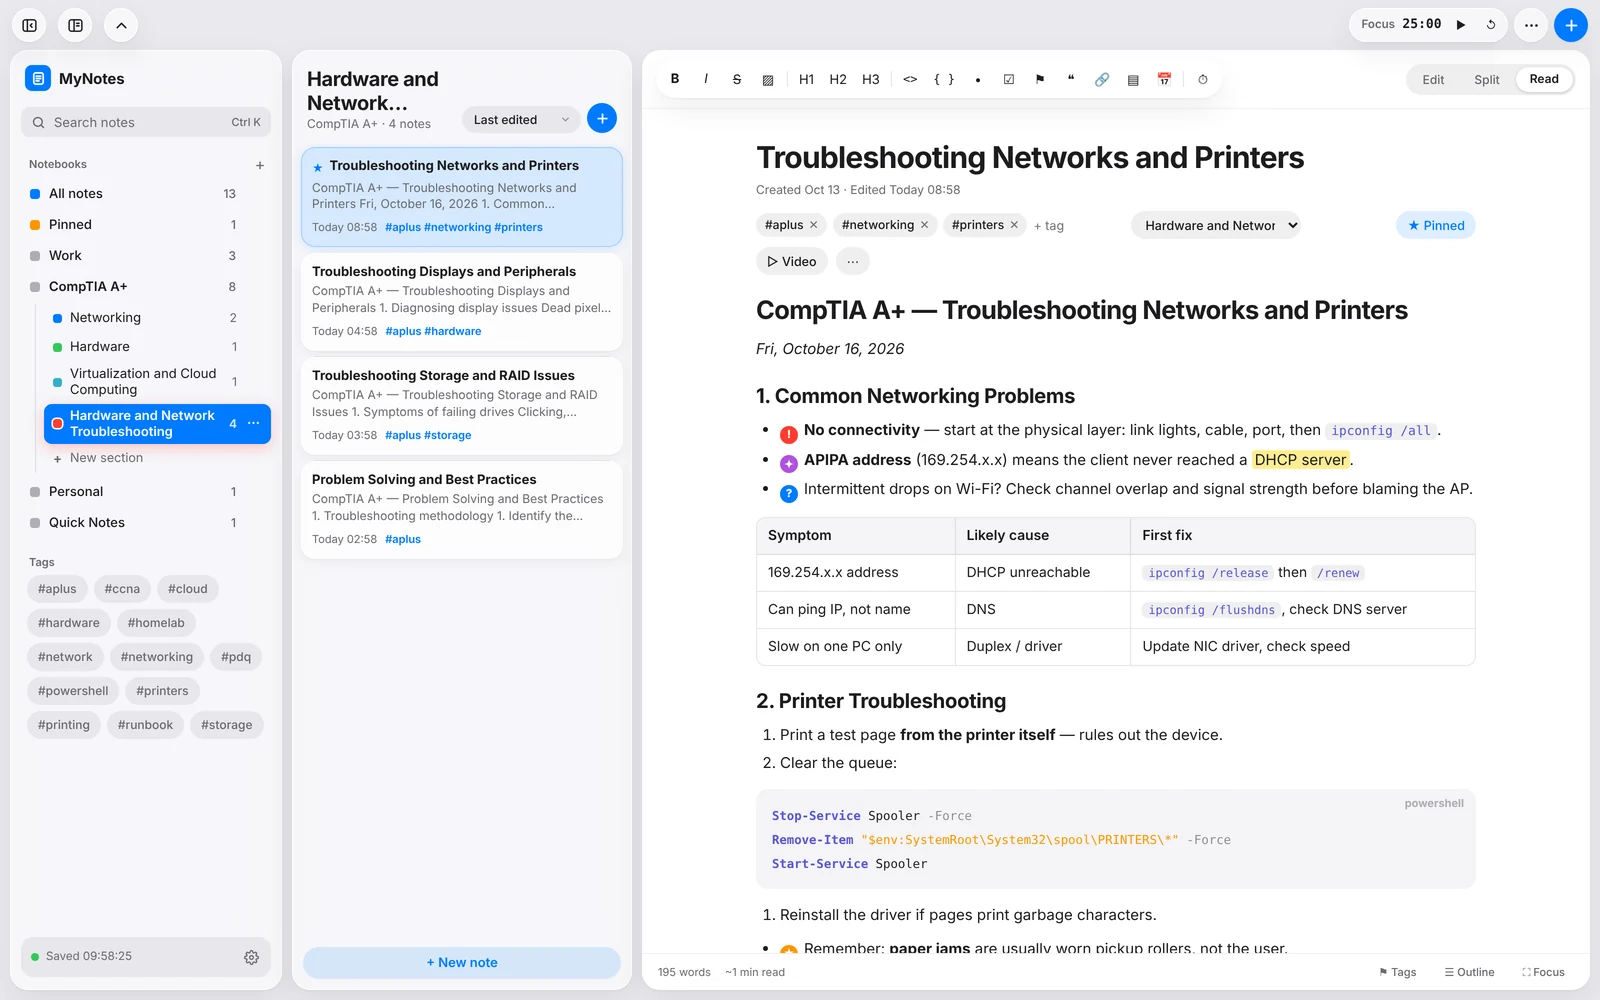
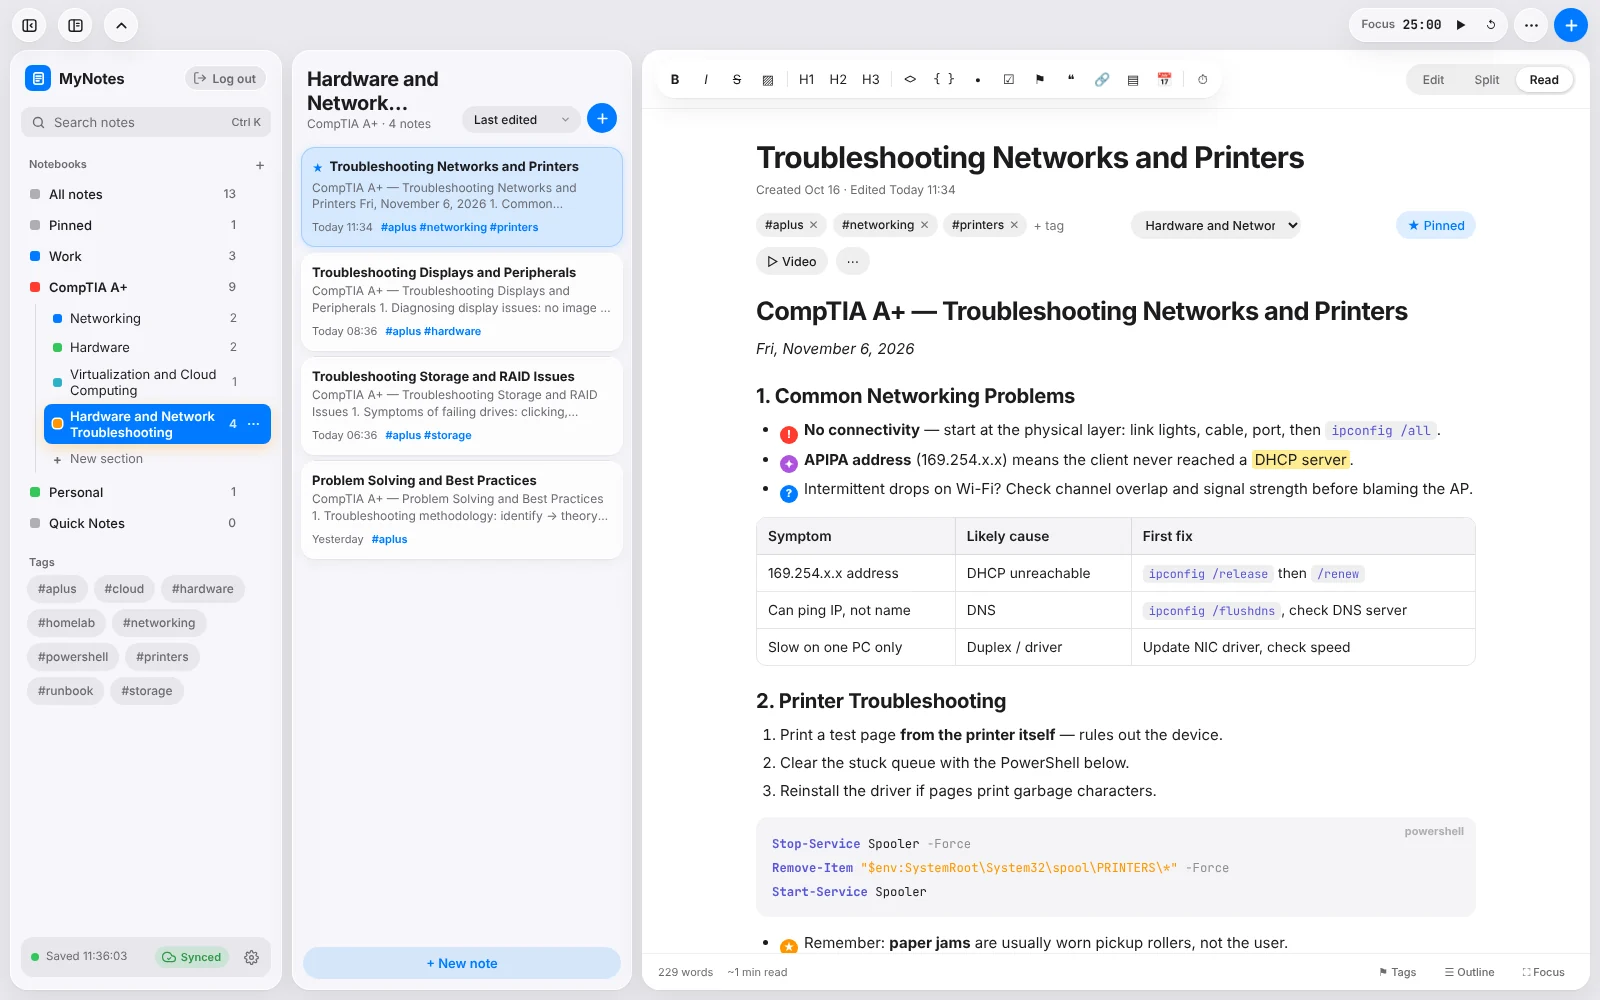
MyNotes: new screenshots, Neon in card and teaser text

diff --git a/projects.html b/projects.html
@@ -211,11 +211,11 @@
       </article>
       <article class="card" data-group="personal">
         <figure class="card-shot card-gallery">
-          <img src="images/mynotes.webp" alt="MyNotes: notebook sidebar with colored sections, a note list of glass cards, and a CompTIA A+ study note in split edit/preview view with a comparison table and a PowerShell code block" loading="lazy" onerror="this.closest('.card-shot').remove()">
+          <img src="images/mynotes.webp" alt="MyNotes: notebook sidebar with colored sections, a Log out button and a Synced cloud indicator, a note list of glass cards, and a CompTIA A+ study note in split edit/preview view with paragraph tags and a comparison table" loading="lazy" onerror="this.closest('.card-shot').remove()">
           <figcaption>Split edit / preview</figcaption>
           <div class="gallery-thumbs" role="group" aria-label="MyNotes views">
-            <button type="button" aria-pressed="true" data-label="Split edit / preview" data-alt="MyNotes: notebook sidebar with colored sections, a note list of glass cards, and a CompTIA A+ study note in split edit/preview view with a comparison table and a PowerShell code block"><img src="images/mynotes.webp" alt="" loading="lazy"></button>
-            <button type="button" aria-pressed="false" data-label="Read view" data-alt="MyNotes read view: the rendered study note with paragraph tags, a highlighted exam fact, a symptom-to-fix table and wrapped PowerShell code"><img src="images/mynotes-read.webp" alt="" loading="lazy"></button>
+            <button type="button" aria-pressed="true" data-label="Split edit / preview" data-alt="MyNotes: notebook sidebar with colored sections, a Log out button and a Synced cloud indicator, a note list of glass cards, and a CompTIA A+ study note in split edit/preview view with paragraph tags and a comparison table"><img src="images/mynotes.webp" alt="" loading="lazy"></button>
+            <button type="button" aria-pressed="false" data-label="Read view" data-alt="MyNotes read view: the rendered study note with paragraph tags, a highlighted exam fact, a symptom-to-fix table and a PowerShell code block"><img src="images/mynotes-read.webp" alt="" loading="lazy"></button>
             <button type="button" aria-pressed="false" data-label="Quick delete & note menu" data-alt="MyNotes note list: a trash button on the hovered note and the right-click menu with Open, Pin, Rename, Duplicate and Delete"><img src="images/mynotes-menu.webp" alt="" loading="lazy"></button>
             <button type="button" aria-pressed="false" data-label="Find Tags" data-alt="MyNotes Find Tags panel listing every tagged line and open checklist item across all notes, grouped by tag type"><img src="images/mynotes-tags.webp" alt="" loading="lazy"></button>
             <button type="button" aria-pressed="false" data-label="Settings" data-alt="MyNotes settings: theme, accent color, title bar color, text size, interface and reading fonts, Pomodoro timer and page history"><img src="images/mynotes-settings.webp" alt="" loading="lazy"></button>
@@ -224,8 +224,8 @@
         <div class="card-body">
           <div class="card-kicker"><span>personal build</span><span>shipped</span></div>
           <h3>MyNotes — Markdown Notes, Synced Everywhere</h3>
-          <p>Started as a self-contained notes app in one HTML file, now a live site with a Node/Express backend and Postgres, so every device sees the same notebook. Organized like OneNote — notebooks › sections › pages › subpages, color-coded from the sidebar — with page history you can restore, Quick Notes, paragraph tags with a Find Tags summary, wikilinks, a split edit/preview pane, PowerShell syntax highlighting, image paste, and a focus timer. Columns resize by dragging, notes delete from a hover button or right-click menu, and the accent and title-bar colors are yours to pick. IndexedDB keeps an offline copy: edits save on-device when the server is unreachable and sync when the connection returns. Every dialog is built in-app, login is rate-limited, and the whole stack deploys from one Render blueprint.</p>
-          <div class="chips"><span class="chip hi">Node / Express</span><span class="chip">Postgres</span><span class="chip">IndexedDB</span><span class="chip">Markdown</span><span class="chip">Render</span></div>
+          <p>Started as a self-contained notes app in one HTML file, now a live site with a Node/Express backend on Render and Postgres on Neon, so every device sees the same notebook. Organized like OneNote — notebooks › sections › pages › subpages, color-coded from the sidebar — with page history you can restore, Quick Notes, paragraph tags with a Find Tags summary, wikilinks, a split edit/preview pane, PowerShell syntax highlighting, image paste, and a focus timer. Columns resize by dragging, notes delete from a hover button or right-click menu, and the accent and title-bar colors are yours to pick. IndexedDB keeps an offline copy: edits save on-device when the server is unreachable and sync when the connection returns, and a cloud indicator shows each edit reaching the database. Every dialog is built in-app, login is rate-limited with a one-click log out, and the app deploys from one Render blueprint.</p>
+          <div class="chips"><span class="chip hi">Node / Express</span><span class="chip">Postgres (Neon)</span><span class="chip">IndexedDB</span><span class="chip">Markdown</span><span class="chip">Render</span></div>
         </div>
       </article>
       <article class="card" data-group="personal">

diff --git a/index.html b/index.html
@@ -439,7 +439,7 @@
         <div class="proj">
           <div>
             <h3>MyNotes</h3>
-            <p>OneNote-style Markdown notes synced across devices — Node/Express + Postgres on Render, offline cache in IndexedDB, page history, paragraph tags.</p>
+            <p>OneNote-style Markdown notes synced across devices — Node/Express on Render + Postgres on Neon, offline cache in IndexedDB, page history, paragraph tags.</p>
           </div>
           <div class="proj-meta"><span class="chip hi">Node / Express</span><span class="chip">Postgres</span><span class="chip">personal</span></div>
         </div>

diff --git a/CLAUDE.md b/CLAUDE.md
@@ -136,6 +136,23 @@ branch `main`, root folder. **Live:** https://xotwod197.github.io/Ramiros_Portfo
 
 ## Changelog (newest first)
 
+### 2026-11-06 (work PC via Claude)
+- **MyNotes card: five new screenshots** for the current app (Log out pill in the sidebar,
+  Synced cloud indicator, long titles fitting the selection highlight). Same filenames,
+  replaced in place: `mynotes.webp`, `mynotes-read.webp`, `mynotes-menu.webp`,
+  `mynotes-tags.webp`, `mynotes-settings.webp` (1600×1000, 16:10). Demo notebook only —
+  generic CompTIA A+ study notes, work-style runbooks, a home-lab plan; no hostnames, no
+  company details. Rendered headless with a mock API; the app's default system font
+  (Segoe UI) was stood in by Inter, code font is the real JetBrains Mono.
+- **MyNotes database moved to Neon** (Render's free Postgres expires): card text now says
+  "Node/Express backend on Render and Postgres on Neon", adds the cloud sync indicator and
+  one-click log out; chip `Postgres` → `Postgres (Neon)`; split-view and read-view alt text
+  updated to match the new shots. Home teaser line updated the same way. No CSS change, so no
+  `?v=` bump.
+- `images/mynotes.jpg` is not referenced by any page (leftover).
+- Merged with the 2026-11-03 home/cloud commits (new résumé PDF, phone button) via rebase;
+  only conflict was this changelog.
+
 ### 2026-11-03 (cloud (Claude Projects))
 - **New résumé from Ramiro replaces the old one.** `ramiro-herrera-resume.pdf` swapped for his own
   2-page PDF (exported from his Word résumé). `index.html#resume` updated to match it: contact
@@ -306,5 +323,10 @@ branch `main`, root folder. **Live:** https://xotwod197.github.io/Ramiros_Portfo
 
 ## Open items
 
+- **Résumé MyNotes line still says "Node/Express and Postgres on Render"** (`index.html#resume`
+  and the PDF). The database moved to Neon on 2026-11-06, so it should read "Node/Express on
+  Render and Postgres on Neon". Per the 2026-11-03 résumé rule this comes from Ramiro's Word
+  résumé: he updates the Word file and exports the PDF, then `index.html#resume` is matched to it.
+- `images/mynotes.jpg` is unused — delete it if nothing else needs it (no duplicate images rule).
 - Custom domain: still choosing a name; nothing registered.
 - Keep adding certs / projects / job changes as they happen — only ones Ramiro names.
